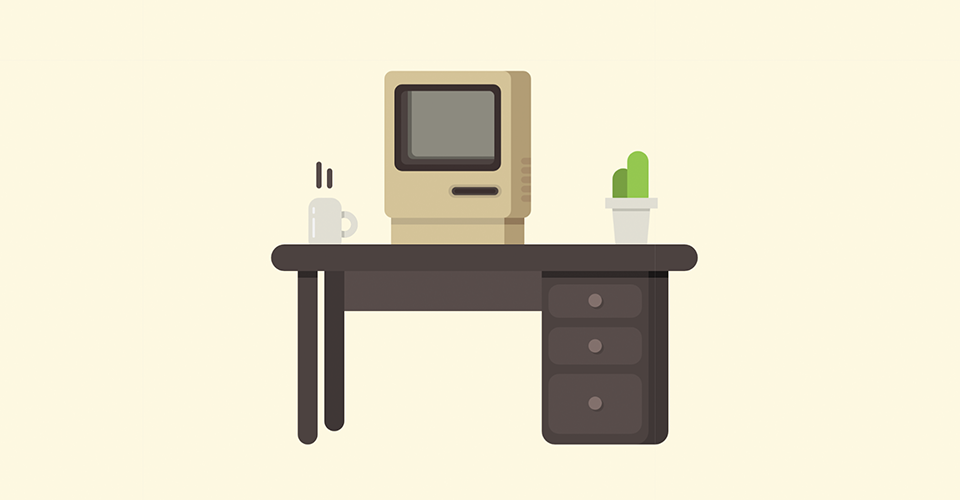
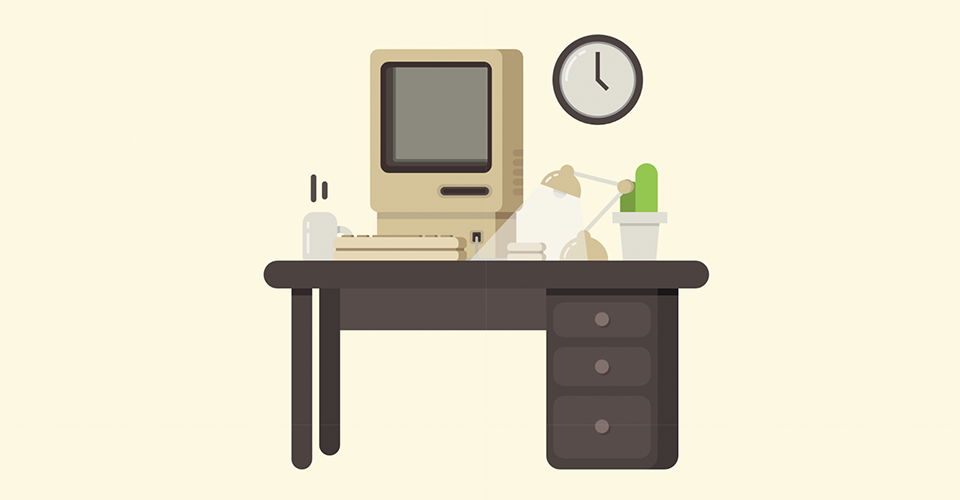
Refined style.
Created bounding box for dot pattern.
Added more desk scene assets.
Added keyboard and mouse.
Added clock.
Added lamp.
Changed dot pattern colour palette.
Changed computer shape.
Added further level of zoom detail.

Changed region(s): [[0.25, 0.06, 0.75, 0.96], [0.625, 0.63, 0.6562, 0.66]]

diff --git a/style_final.js b/style_final.js
@@ -75,9 +75,14 @@ clockOuter = "#4E403E";
 clockHands = "#4E403E";
 clockHightlight = "#F2F2F2";
 
+dotOverlay = (0);
+dotOverlayShade = (50);
+
+// greyscale
 colourList = ["#C6C4C1", "#ADACA6", "#7C7B77", "#5E5D58"];
 
-otherColourList = ["#1798C4", "#6DCF00", "#FA3F00", "#F8FF00"];
+// coloured
+// colourList = ["#1798C4", "#6DCF00", "#FA3F00", "#F8FF00"]; 
 
 bg = "#FFF8E1";
 
@@ -1054,22 +1059,22 @@ function drawGrid(p5, x1, x2, y1, y2, z, zoom) {
             var cx = p5.map(x, x1, x2, 0, 256);
             var cx2 = p5.map(x + objWidth, x1, x2, 0, 256); // width 
             var xWidth = cx2 - cx;
-            p5.strokeWeight(3*xWidth / 4);
+            p5.strokeWeight(4*xWidth / 5);
 
             var y = starty;
 
             while (y < endy) {
 
-               var noiseScale2 = 1;
-               var i = p5.noise(x * noiseScale2, y * noiseScale2, z+5);
+               var probablityNoiseScale1 = 1;
+               var probablityNoise1 = p5.noise(x * probablityNoiseScale1, y * probablityNoiseScale1, z+5);
 
                var marginStep;
 
-               if (i < 0.5) {
+               if (probablityNoise1 < 0.5) {
                   yEndPos = y;
                   marginStep = margin/2;
                }
-               else if (i < 0.7) {
+               else if (probablityNoise1 < 0.7) {
                   yEndPos = y + margin/2;
                   marginStep = margin;
                }
@@ -1082,15 +1087,15 @@ function drawGrid(p5, x1, x2, y1, y2, z, zoom) {
                var cy = p5.map(y, y1, y2, 0, 256);
                var cy2 = p5.map(yEndPos, y1, y2, 0, 256);
 
-               var noiseScale1 = 1;
-               var noise1 = p5.noise(x * noiseScale1, y * noiseScale1, z);
-               var noise1Mapped = p5.map(noise1, 0.3, 0.7, 0, 1);
+               var colourNoiseScale = 1;
+               var colourNoise = p5.noise(x * colourNoiseScale, y * colourNoiseScale, z);
+               var colourNoiseMapped = p5.map(colourNoise, 0.3, 0.7, 0, 1);
 
-               if (noise1Mapped > 1 || noise1Mapped <= 0) {
-                  noise1Mapped = 0.9;
+               if (colourNoiseMapped > 1 || colourNoiseMapped <= 0) {
+                  colourNoiseMapped = 0.9;
                }
 
-               var colourIndex = Math.floor(noise1Mapped*colourList.length);
+               var colourIndex = Math.floor(colourNoiseMapped*colourList.length);
                var c = colourList[colourIndex];
 
                p5.stroke(c);
@@ -1098,47 +1103,46 @@ function drawGrid(p5, x1, x2, y1, y2, z, zoom) {
 
                if (zoom >= 4) {
 
-                  if (i < 0.5) {
+                  if (probablityNoise1 < 0.5) {
                   }
 
-                  else if (i < 0.7) { // if small line draw additional dots
+                  else if (probablityNoise1 < 0.7) { // if small line draw additional dots
 
                      // bottom secondary dot
-                     var noiseScale6 = 1;
-                     var otherverynewi = p5.noise(x * noiseScale6, y * noiseScale6, z+20);
-                     console.log(otherverynewi);
+                     var probablityNoiseScale2 = 1;
+                     var probablityNoise2 = p5.noise(x * probablityNoiseScale2, y * probablityNoiseScale2, z+20);
 
-                     if (otherverynewi < 0.45) { // draw dot
+                     if (probablityNoise2 < 0.45) { // draw dot
                      
                         var cy = p5.map(y, y1, y2, 0, 256);
                         var cy2 = p5.map(yEndPos, y1, y2, 0, 256);
 
                         // draw dot at top
-                        p5.stroke(0, 100);
+                        p5.stroke(dotOverlay, dotOverlayShade);
                         p5.line(cx, cy, cx, cy);
                      }
 
-                     else if (otherverynewi < 0.55) { // draw dot
+                     else if (probablityNoise2 < 0.55) { // draw dot
                      
                         var cy = p5.map(y, y1, y2, 0, 256);
                         var cy2 = p5.map(yEndPos, y1, y2, 0, 256);
 
                         // draw dot at bottom
-                        p5.stroke(0, 100);
+                        p5.stroke(dotOverlay, dotOverlayShade);
                         p5.line(cx, cy2, cx, cy2);
                      }
 
-                     else if (otherverynewi < 0.65) { // draw dot
+                     else if (probablityNoise2 < 0.65) { // draw dot
                      
                         var cy = p5.map(y, y1, y2, 0, 256);
                         var cy2 = p5.map(yEndPos, y1, y2, 0, 256);
 
                         // draw dot at top
-                        p5.stroke(0, 100);
+                        p5.stroke(dotOverlay, dotOverlayShade);
                         p5.line(cx, cy, cx, cy);
 
                         // draw dot at botom
-                        p5.stroke(0, 100);
+                        p5.stroke(dotOverlay, dotOverlayShade);
                         p5.line(cx, cy2, cx, cy2);
                      }
 
@@ -1150,48 +1154,48 @@ function drawGrid(p5, x1, x2, y1, y2, z, zoom) {
                   else { // if longest line then draw additional dots
 
                      // bottom secondary dot
-                     var noiseScale5 = 1;
-                     var verynewi = p5.noise(x * noiseScale5, y * noiseScale5, z+15);
+                     var probablityNoiseScale3 = 1;
+                     var probablityNoise3 = p5.noise(x * probablityNoiseScale3, y * probablityNoiseScale3, z+15);
 
-                     if (verynewi < 0.45) { // draw dot
+                     if (probablityNoise3 < 0.45) { // draw dot
                      
                         var cy = p5.map(yEndPos, y1, y2, 0, 256);
                         var cy2 = p5.map(yEndPos, y1, y2, 0, 256);
 
                         // draw dot
-                        p5.stroke(0, 100);
+                        p5.stroke(dotOverlay, dotOverlayShade);
                         p5.line(cx, cy, cx, cy2);
                      }
 
-                     else if (verynewi > 0.55) { // draw line
+                     else if (probablityNoise3 > 0.55) { // draw line
                      
                         var cy = p5.map(y + margin, y1, y2, 0, 256);
                         var cy2 = p5.map(yEndPos, y1, y2, 0, 256);
 
                         // draw line
-                        p5.stroke(0, 100);
+                        p5.stroke(dotOverlay, dotOverlayShade);
                         p5.line(cx, cy, cx, cy2);
 
-                        if (verynewi < 0.6) { // draw at top
+                        if (probablityNoise3 < 0.6) { // draw at top
 
                            // draw dot at top
-                           p5.stroke(0, 100);
+                           p5.stroke(dotOverlay, dotOverlayShade);
                            p5.line(cx, cy, cx, cy);
                         }
-                        else if (newi < 0.72) { // draw at bottom
+                        else if (probablityNoise3 < 0.72) { // draw at bottom
 
                            // draw dot at bottom
-                           p5.stroke(0, 100);
+                           p5.stroke(dotOverlay, dotOverlayShade);
                            p5.line(cx, cy2, cx, cy2);
                         }
                         else { // draw at both
 
                            // draw dot at top
-                           p5.stroke(0, 100);
+                           p5.stroke(dotOverlay, dotOverlayShade);
                            p5.line(cx, cy, cx, cy);
 
                            // draw dot at bottom
-                           p5.stroke(0, 100);
+                           p5.stroke(dotOverlay, dotOverlayShade);
                            p5.line(cx, cy2, cx, cy2);
                         }
                      }
@@ -1201,21 +1205,21 @@ function drawGrid(p5, x1, x2, y1, y2, z, zoom) {
                      }
 
                      // top secondary dot
-                     var noiseScale4 = 1;
-                     var newi = p5.noise(x * noiseScale4, y * noiseScale4, z+10);
+                     var probablityNoiseScale4 = 1;
+                     var probablityNoise4 = p5.noise(x * probablityNoiseScale4, y * probablityNoiseScale4, z+10);
 
-                     if (newi < 0.45) { // draw dot
+                     if (probablityNoise4 < 0.45) { // draw dot
                         yEndPos = y;
                      
                         var cy = p5.map(y, y1, y2, 0, 256);
                         var cy2 = p5.map(yEndPos, y1, y2, 0, 256);
 
                         // draw dot
-                        p5.stroke(0, 100);
+                        p5.stroke(dotOverlay, dotOverlayShade);
                         p5.line(cx, cy, cx, cy2);
                      }
 
-                     else if (newi > 0.55) { // draw line
+                     else if (probablityNoise4 > 0.55) { // draw line
 
                         yEndPos = y + margin/2;
                      
@@ -1223,29 +1227,29 @@ function drawGrid(p5, x1, x2, y1, y2, z, zoom) {
                         var cy2 = p5.map(yEndPos, y1, y2, 0, 256);
 
                         // draw line
-                        p5.stroke(0, 100);
+                        p5.stroke(dotOverlay, dotOverlayShade);
                         p5.line(cx, cy, cx, cy2);
 
-                        if (newi < 0.6) { // draw at top
+                        if (probablityNoise4 < 0.6) { // draw at top
                            
                            // draw dot at top
-                           p5.stroke(0, 100);
+                           p5.stroke(dotOverlay, dotOverlayShade);
                            p5.line(cx, cy, cx, cy);
                         }
-                        else if (newi < 0.72) { // draw at bottom
+                        else if (probablityNoise4 < 0.72) { // draw at bottom
                            
                            // draw dot at bottom
-                           p5.stroke(0, 100);
+                           p5.stroke(dotOverlay, dotOverlayShade);
                            p5.line(cx, cy2, cx, cy2);
                         }
                         else { // draw at both
 
                            // draw dot at top
-                           p5.stroke(0, 100);
+                           p5.stroke(dotOverlay, dotOverlayShade);
                            p5.line(cx, cy, cx, cy);
 
                            // draw dot at bottom
-                           p5.stroke(0, 100);
+                           p5.stroke(dotOverlay, dotOverlayShade);
                            p5.line(cx, cy2, cx, cy2);
                         }
                      }

diff --git a/index.html b/index.html
@@ -22,7 +22,7 @@
     <script src="http://cdnjs.cloudflare.com/ajax/libs/p5.js/0.5.14/addons/p5.dom.js"></script>
     <script src="https://unpkg.com/leaflet@1.2.0/dist/leaflet.js"></script>
     <script src="leaflet-hash.js"></script>
-    <script src="style_exploration.js"></script>
+    <script src="style_final.js"></script>
     <script src="map.js"></script>
 </body>
 </html>

diff --git a/README.md b/README.md
@@ -1,11 +1,9 @@
 ## Powers of 10 PRINT
 
-Since I had the foundation of the math behind the pattern working I decided to begin creating the graphics for the computer desk scene.
+I created additional graphical assets for the computer desk scene. I wanted to further enforce the atmosphere of a cluttered work desk. 
 
-I overlayed a numbered grid over my illustrator design to help me to determine the coordinate space of the p5 sketch.
+To help the zone transitioning appear smoother and make more sense I decided to create a targeted bounding box for the pattern to appear in. This zone is dependant on the grid lines so this meant I had to adjust the computer screen design to accomodate the grid size and position. I gave a small boundary from the edges of the computer screen to where the pattern starts. This was to softern the shift in visual weight between these elements. Unfortunately the grid does not align perfectly with the computer screen bounds at higher levels of zoom.
 
-With the aesthetic of this project I wanted to push my understanding of the art style that was achievable within p5. I opted to implement a smooth vector art style to challenge myself to create a design that challenged the traditional design produced using code.
+When looking at creating further zone levels and more variation I decided to draw additional pattern elements on top of the existing lines. I felt this was appropriate to the idea of components of the computer being made up of smaller and smaller components.
 
-Once I had my top level scene established I looked into mapping my dot pattern into the infinte space. This proved quite challenging, but with Tom's help I was able to reproduce the design in the movable canvas.
-
-Currently the switch between the zones is quite jarring so I will look to implement a smoother method for this.
+I also looked into experimenting with the colour palette. In this example I've looked into a greyscale palette. This was to complement the screen colour better and reduce the contrast between the computer design and the pattern design.
